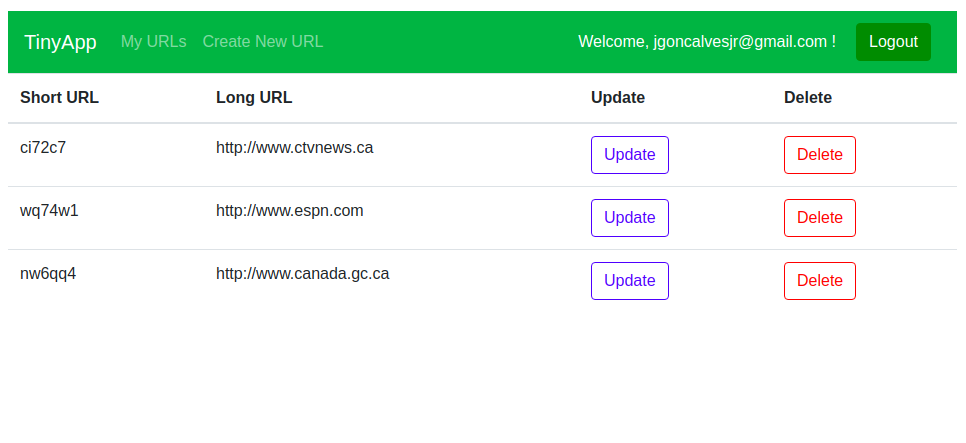
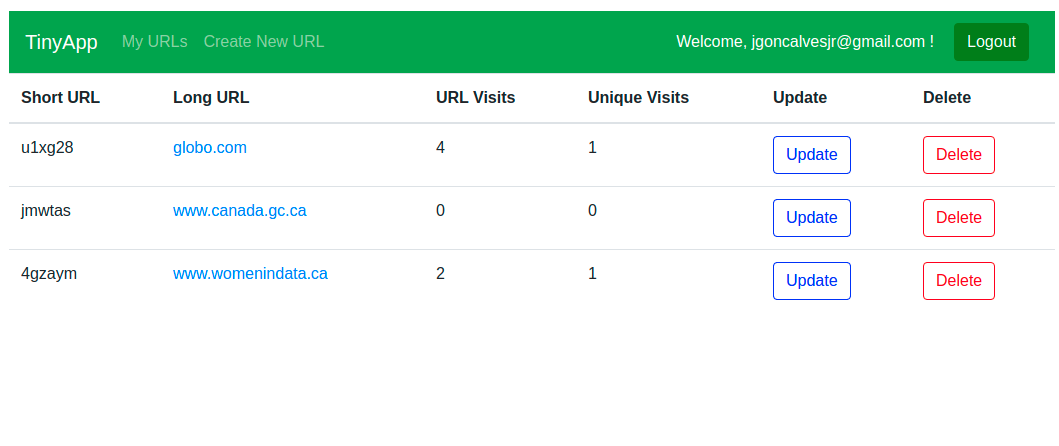
Implement basic analytics (visits, unique visits, creation and last visit timestamp), update documentation screenshots

diff --git a/express_server.js b/express_server.js
@@ -3,6 +3,7 @@ const express = require("express");
 const bodyParser = require("body-parser");
 const cookieSession = require('cookie-session');
 const bcrypt = require('bcrypt');
+const moment = require('moment');
 const app = express();
 const morgan = require('morgan');
 const methodOverride = require('method-override');
@@ -96,7 +97,10 @@ app.get("/urls/:id", (req, res) => {
   const templateVars = {
     user: users[user],
     shortURL: req.params.id,
-    longURL: urlDatabase[req.params.id].longURL };
+    longURL: urlDatabase[req.params.id].longURL,
+    createdAt: urlDatabase[req.params.id].createdAt,
+    visitedAt: urlDatabase[req.params.id].visitedAt
+  };
   
   if (!user) {
     return res.redirect('/urls');
@@ -159,7 +163,7 @@ app.delete("/logout", (req, res) => {
   res.redirect('/urls');
 });
 
-// Created new short URL, stores it to URL database associating it to creator user, and redirects to new short URL details
+// Create new short URL, stores it to URL database associating it to creator user, and redirects to new short URL details
 app.post("/urls", (req, res) => {
   const userID = req.session.user_id;
   const shortURL = generateRandomString();
@@ -168,19 +172,34 @@ app.post("/urls", (req, res) => {
     return res.status(400).send('Web address cannot be empty!');
   }
   
-  urlDatabase[shortURL] = { longURL: req.body.longURL, userID };
+  urlDatabase[shortURL] = { longURL: req.body.longURL,
+                            urlVisits: 0,
+                            uniqueVisits: [],
+                            createdAt: moment().format('MMMM Do YYYY, h:mm:ss a'),
+                            visitedAt: "",
+                            userID 
+                          };
   res.redirect(`/urls/${shortURL}`);
 });
 
 // Redirection from shortened URL to original URL. Makes sure it goes to a http:// address
 app.get("/u/:id", (req, res) => {
+  const userID = req.session.user_id;
   
   if (!urlDatabase[req.params.id]) {
     return res.status(404).send('TinyURL not found!\n');
   }
   
   const longURL = urlDatabase[req.params.id].longURL;
-  
+  // Increases page visit count by 1, updates last visit timestamp
+  urlDatabase[req.params.id].urlVisits++;
+  urlDatabase[req.params.id].visitedAt = moment().format('MMMM Do YYYY, h:mm:ss a');
+
+  // If logged user never visited page, adds to unique visitor list
+  if (!urlDatabase[req.params.id].uniqueVisits.includes(userID)) {
+    urlDatabase[req.params.id].uniqueVisits.push(userID);
+  }
+
   if (isCompleteURL(longURL)) {
     res.redirect(longURL);
   } else {

diff --git a/data/data.js b/data/data.js
@@ -16,8 +16,20 @@ const users = {
 
 // URL Database
 const urlDatabase = {
-  "b2xVn2": { longURL: "http://www.lighthouselabs.ca", userID: "xp106b" },
-  "9sm5xK": { longURL: "http://www.google.com", userID: "xp106b" }
+  "b2xVn2": { 
+    longURL: "http://www.lighthouselabs.ca", 
+    userID: "xp106b", 
+    urlVisits: 0, 
+    uniqueVisits: [], 
+    createdAt: "November 15th 2017, 11:59:59am",
+    visitedAt: "November 16th 2017, 11:59:59pm" },
+  "9sm5xK": { 
+    longURL: "http://www.google.com", 
+    userID: "xp106b", 
+    urlVisits: 0, 
+    uniqueVisits: [], 
+    createdAt: "July 21st 2018, 1:20:11pm", 
+    visitedAt: "July 21st 2018, 1:20:11pm" }
 };
 
 module.exports = {
